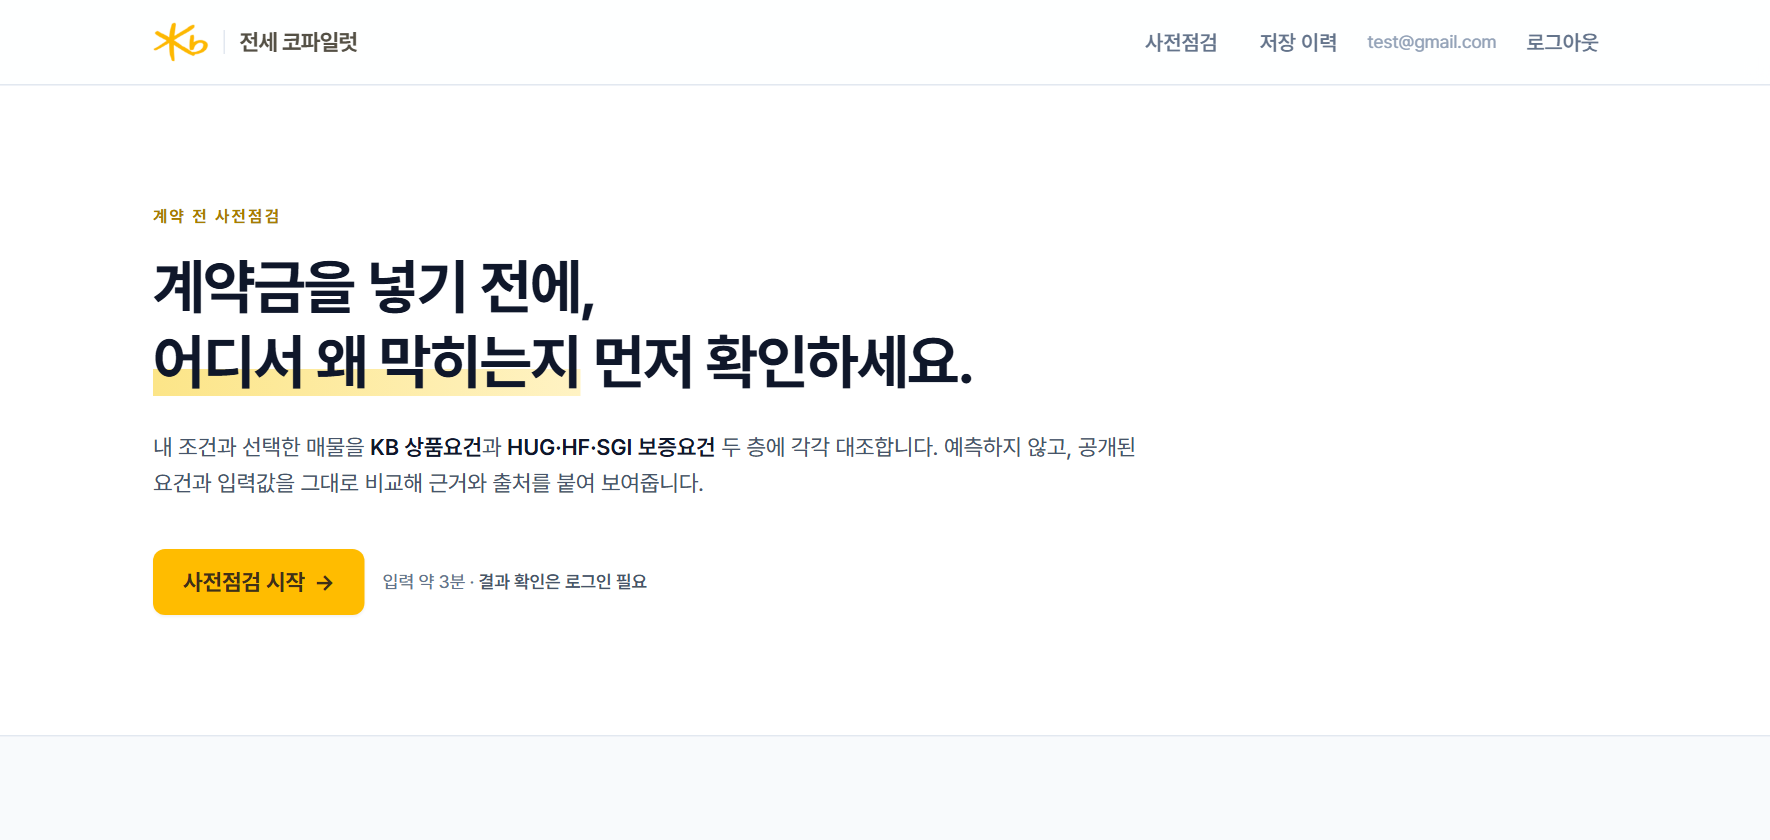
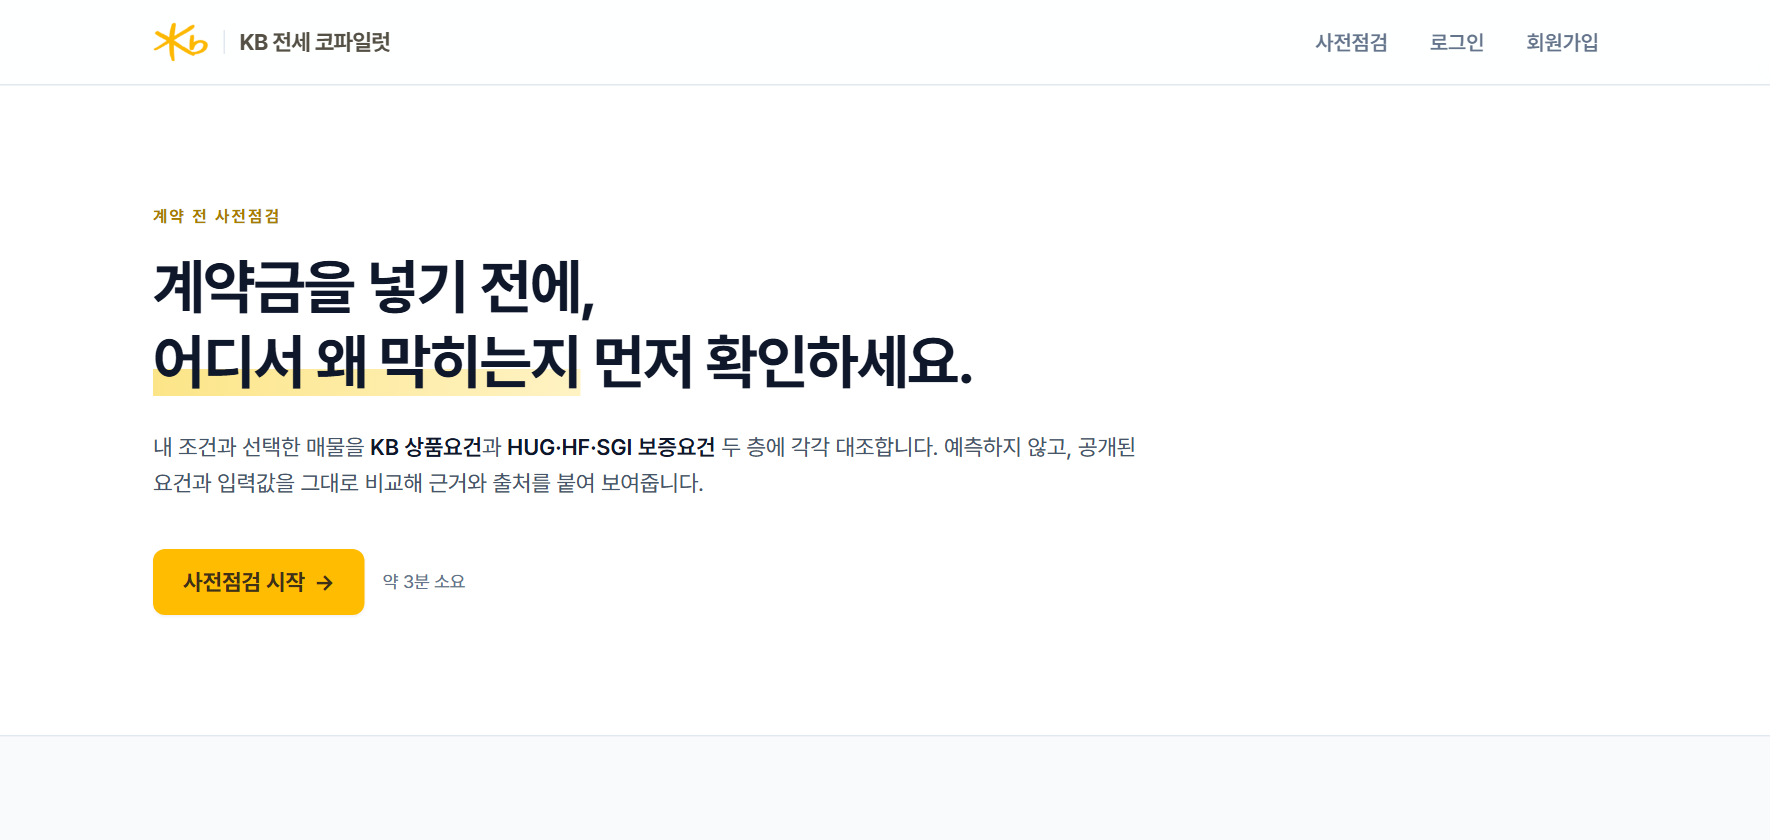
fix: 홈 로그인 안내 삭제 · 워드마크 KB 추가 · 입력 기본값을 예시 placeholder 로
홈 — CTA 옆 '결과 확인은 로그인 필요'를 빼고 '약 3분 소요'만 남긴다.

헤더 — 워드마크를 'KB 전세 코파일럿'으로. 3글자가 늘면서 390px 로그인 상태의
로고↔네비 간격이 25px → 5px 로 좁아져 워드마크 표시 기준선을 412px 로 올렸다
(측정: 360px→0px, 390px→5px, 412px→27px). 그 아래에서는 마크만 노출한다.
320~1280px 전 구간 한 줄·가로 오버플로 없음 재확인.

입력 — 연령 28세·보증금 2억·계약기간 24개월이 미리 채워져 있어서, 사용자가 자기
값으로 착각한 채 넘어갈 수 있었다. 기본값을 0으로 비우고 화면에서는 빈 칸으로
그린 뒤 placeholder 로 예시를 보여준다('예: 28', '예: 200000000', '예: 24').
0 은 validateApplicant·validateContract 가 이미 오류로 잡으므로 빈 채로 통과할 수 없다
(확인: 빈 값으로 '다음' → "연령은 만 19세 이상 99세 이하로 입력해 주세요").
계약기간에는 '보통 24개월(2년)입니다' 힌트를 붙였다.

tests/ui-flow.manual.ts 는 1단계에서 연령을 채우도록 고친다 — 기본값에 기대던
부분이라 이번 변경으로 바로 막혔다.

diff --git a/src/app/layout.tsx b/src/app/layout.tsx
@@ -33,12 +33,12 @@ export default async function RootLayout({ children }: { children: React.ReactNo
                 priority
                 className="h-[26px] w-auto transition-opacity duration-150 group-hover:opacity-75"
               />
-              {/* 390px 미만에서는 마크만 남긴다. 네비 항목이 3개라 그 아래에서는 워드마크를
-                  넣는 순간 간격이 0px 이 된다 (측정: 360px→0px, 390px→25px). */}
-              <span aria-hidden className="h-4 w-px bg-slate-200 max-[389px]:hidden" />
+              {/* 412px 미만에서는 마크만 남긴다. 네비 항목이 3개라 그 아래에서는 워드마크를
+                  넣는 순간 간격이 거의 사라진다 (측정: 360px→0px, 390px→5px, 412px→27px). */}
+              <span aria-hidden className="h-4 w-px bg-slate-200 max-[411px]:hidden" />
               {/* 워드마크만 KB Dark Gray — 노랑 마크와 같은 웜톤이라 로고 옆에서 한 덩어리로 읽힌다 */}
-              <span className="whitespace-nowrap text-[13.5px] font-bold tracking-tight text-kbgray-dark max-[389px]:hidden sm:text-[15px]">
-                전세 코파일럿
+              <span className="whitespace-nowrap text-[13.5px] font-bold tracking-tight text-kbgray-dark max-[411px]:hidden sm:text-[15px]">
+                KB 전세 코파일럿
               </span>
             </Link>
             {/* 좁은 폭에서 '저장 이력'·'전세 코파일럿'이 두 줄로 깨지지 않게 한다.

diff --git a/src/app/diagnosis/page.tsx b/src/app/diagnosis/page.tsx
@@ -393,7 +393,8 @@ export default function DiagnosisPage() {
                   <input
                     type="number"
                     className="inp"
-                    value={applicant.age}
+                    value={applicant.age || ''}
+                    placeholder="예: 28"
                     inputMode="numeric"
                     onChange={(e) => set('age', Number(e.target.value))}
                   />
@@ -520,17 +521,19 @@ export default function DiagnosisPage() {
                   <input
                     type="number"
                     className="inp"
-                    value={contract.deposit}
+                    value={contract.deposit || ''}
+                    placeholder="예: 200000000"
                     inputMode="numeric"
                     onChange={(e) => setC('deposit', Number(e.target.value))}
                   />
                 </Row>
 
-                <Row label="계약기간 (개월)" required>
+                <Row label="계약기간 (개월)" required hint="보통 24개월(2년)입니다.">
                   <input
                     type="number"
                     className="inp"
-                    value={contract.termMonths}
+                    value={contract.termMonths || ''}
+                    placeholder="예: 24"
                     inputMode="numeric"
                     onChange={(e) => setC('termMonths', Number(e.target.value))}
                   />

diff --git a/src/features/intake/schema.ts b/src/features/intake/schema.ts
@@ -2,8 +2,11 @@
 // 명세 F-01 입력 필드 정의·완료 조건 기준
 import type { ApplicantInput, PlannedContractInput, Property } from '@/types';
 
+// 숫자 입력은 0으로 비워 둔다. 그럴듯한 값(28세·2억·24개월)을 미리 채워두면 사용자가 자기
+// 값으로 착각한 채 넘어간다 — 화면에서는 0을 빈 칸으로 그리고 placeholder 로 예시를 보여준다.
+// 0 은 validateApplicant·validateContract 가 이미 오류로 잡으므로 그냥 통과할 수 없다.
 export const DEFAULT_APPLICANT: ApplicantInput = {
-  age: 28,
+  age: 0,
   householdHead: 'YES',
   homeCount: 0,
   maritalStatus: 'SINGLE',
@@ -13,8 +16,8 @@ export const DEFAULT_APPLICANT: ApplicantInput = {
 };
 
 export const DEFAULT_CONTRACT: PlannedContractInput = {
-  deposit: 200000000,
-  termMonths: 24,
+  deposit: 0,
+  termMonths: 0,
   moveInDate: '',
   brokered: true,
 };

diff --git a/src/app/page.tsx b/src/app/page.tsx
@@ -49,11 +49,7 @@ export default function Home() {
                 사전점검 시작
                 <span aria-hidden>→</span>
               </Link>
-              {/* 판정 실행은 로그인 필수다. '로그인 없이'로 적으면 3단계까지 다 입력한 뒤
-                  로그인 벽을 만나게 되므로, 어디서 로그인이 필요한지 미리 알린다. */}
-              <span className="text-xs text-slate-500">
-                입력 약 3분 · <b className="font-semibold text-slate-600">결과 확인은 로그인 필요</b>
-              </span>
+              <span className="text-xs text-slate-500">약 3분 소요</span>
             </div>
           </div>
         </div>

diff --git a/tests/ui-flow.manual.ts b/tests/ui-flow.manual.ts
@@ -67,9 +67,11 @@ async function main() {
     await shot(page, 'logged-in');
     pass('로그인');
 
-    // ---- 1단계 신청인 (기본값 그대로) ----
+    // ---- 1단계 신청인 ----
+    // 숫자 입력은 기본값이 비어 있다(예시는 placeholder). 채우지 않으면 검증에서 막힌다.
     await page.goto(`${BASE}/diagnosis`, { waitUntil: 'networkidle' });
     await page.waitForSelector('text=1. 신청인 조건', { timeout: 30_000 });
+    await page.fill('input[type="number"]', '28');
     await page.click('button:has-text("다음")');
 
     // ---- 2단계 예정 계약 ----
